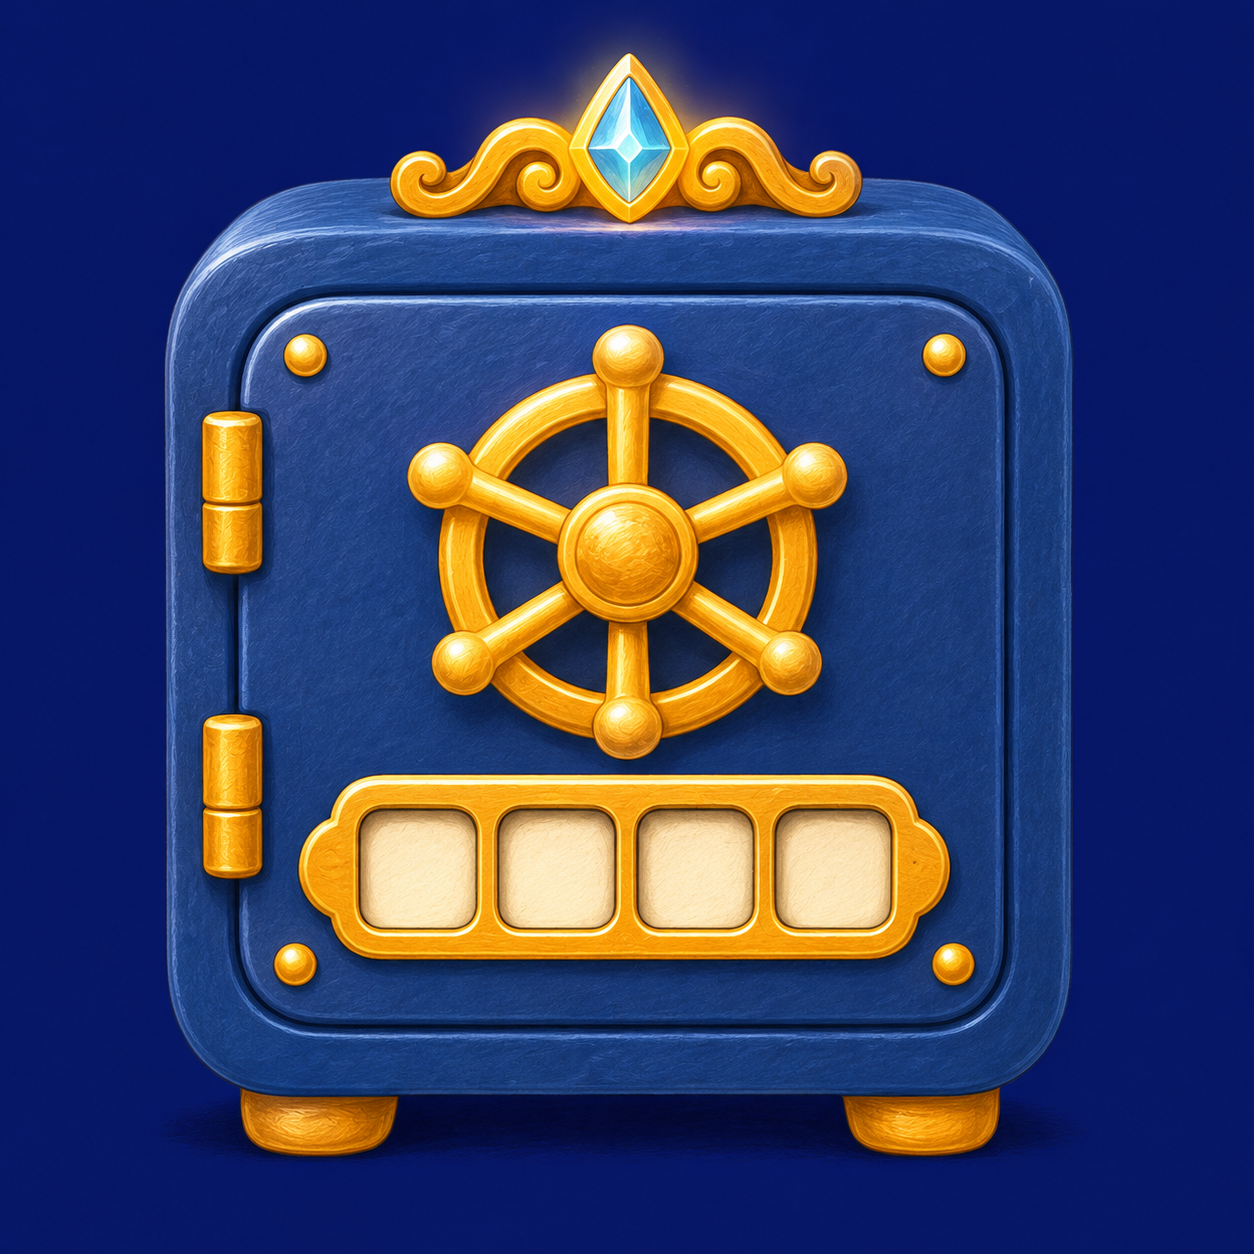
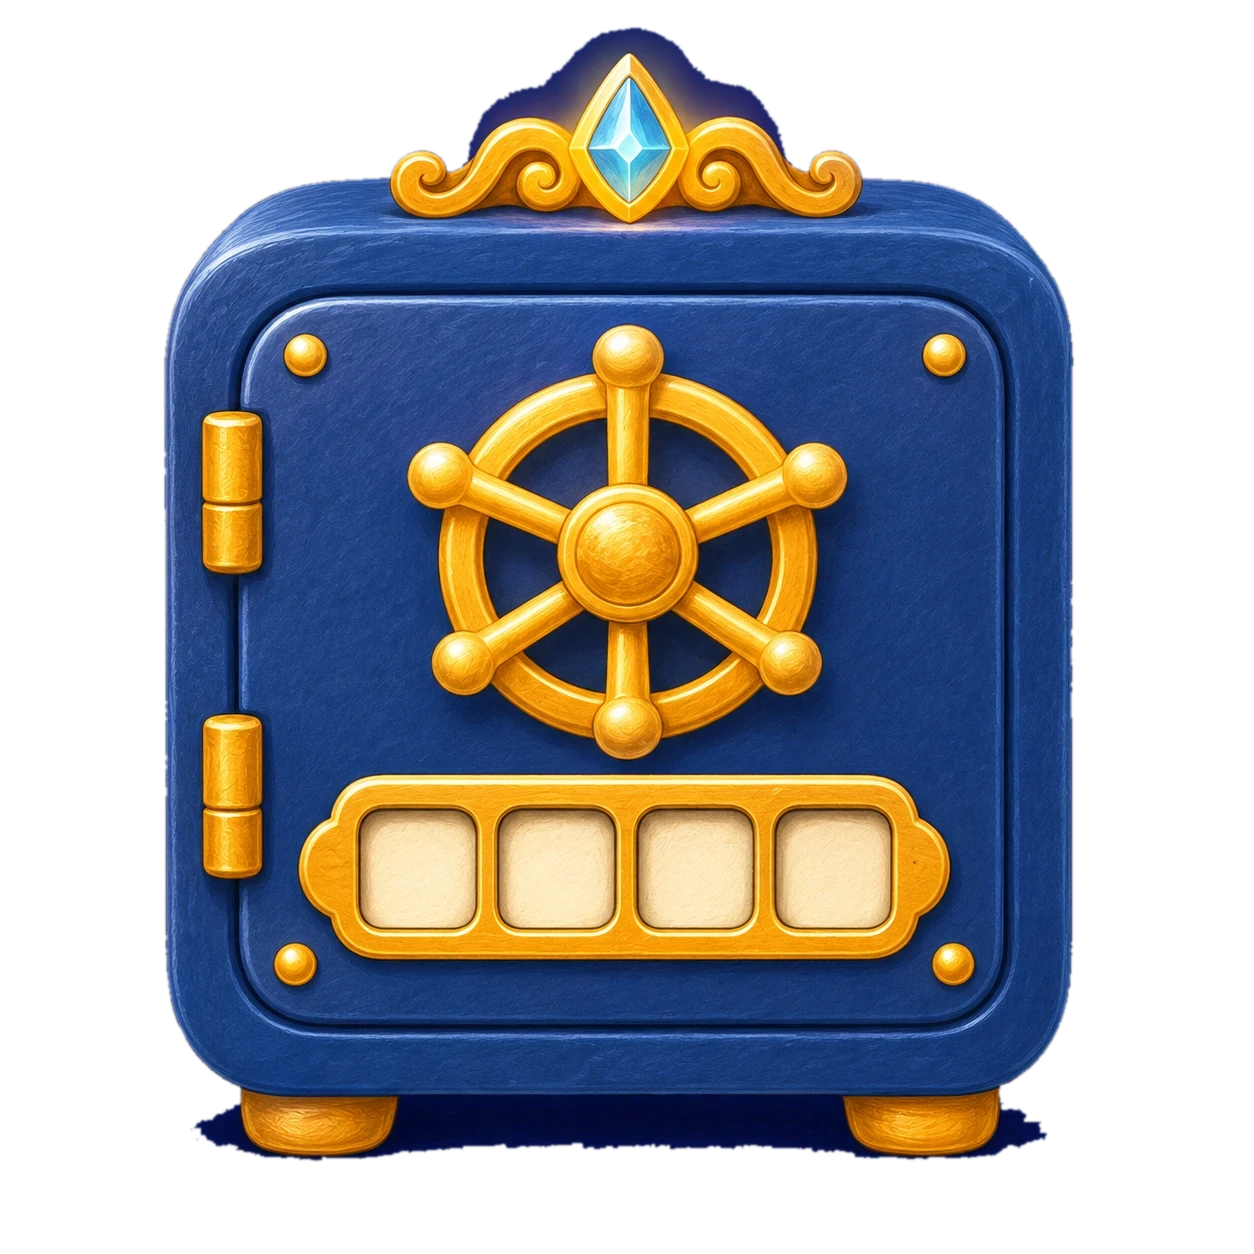
v8: Tresor freigestellt, Plakatstücke im richtigen Format, Werkzeug-Moment schluckt den ersten Tipp, Karte Spur 22, Doku Runden 3–4
Claude-Session: https://claude.ai/code/session_01XbiCnECXMiu6RfpngsWtJQ

diff --git a/app/src/v8/effekte.ts b/app/src/v8/effekte.ts
@@ -14,6 +14,7 @@ export const wzChip = (UI: Record<string, string>, w: Werkzeug, kl = '') => `<sp
 /**
  * Werkzeug-Moment: Einblendung beim Start eines Rätsels (ca. 1,4 s). Die Fläche fängt keine Klicks ab
  * (pointer-events: none); der erste Tipp irgendwo schließt sie und geht ganz normal weiter.
+ * Der erste Tipp schließt nur die Einblendung und löst im Rätsel darunter nichts aus.
  * Gibt eine Funktion zurück, die die Einblendung sofort entfernt.
  */
 export function werkzeugMoment(host: HTMLElement, w: Werkzeug, UI: Record<string, string>, raupeUrl: string): () => void {
@@ -24,15 +25,17 @@ export function werkzeugMoment(host: HTMLElement, w: Werkzeug, UI: Record<string
   el.innerHTML = `<div class="wzm-k"><img class="wzm-r" src="${raupeUrl}" alt=""><p class="wzm-kopf">${UI.wzKopf}</p><div class="wzm-i">${werkzeugIcon(w)}</div><b class="wzm-n">${wzName(UI, w)}</b><p class="wzm-t">${wzSatz(UI, w)}</p></div>`;
   host.appendChild(el);
   let weg = false, t = 0;
+  const schluck = (e: Event) => { e.stopPropagation(); e.preventDefault(); };
+  const tipp = (e: Event) => { schluck(e); ab(); document.addEventListener('click', schluck, { capture: true, once: true }); setTimeout(() => document.removeEventListener('click', schluck, true), 400); };
   const ab = () => {
     if (weg) return;
     weg = true; clearTimeout(t);
-    document.removeEventListener('pointerdown', ab, true);
+    document.removeEventListener('pointerdown', tipp, true);
     if (weniger()) return el.remove();
     el.classList.add('geht');
     setTimeout(() => el.remove(), 220);
   };
-  document.addEventListener('pointerdown', ab, true); // Capture: das Ereignis läuft danach unverändert weiter
+  document.addEventListener('pointerdown', tipp, true); // Capture: der Tipp schließt nur die Einblendung
   t = window.setTimeout(ab, weniger() ? 800 : 1450);
   return ab;
 }

diff --git a/app/src/v8/raetsel.ts b/app/src/v8/raetsel.ts
@@ -1145,7 +1145,7 @@ export function plakat(r: HTMLElement, d: Daten, fertig: () => void) {
   let sel: number | null = null, fehl = 0, sperre = false;
   const stueck = (i: number, kl = '') => `<div class="pk-st${kl}${sel === i ? ' sel' : ''}" data-s="${i}" style="background-image:url(${url});background-size:${cols * 100}% ${rows * 100}%;background-position:${cols > 1 ? ((i % cols) / (cols - 1)) * 100 : 0}% ${rows > 1 ? (Math.floor(i / cols) / (rows - 1)) * 100 : 0}%"></div>`;
   const mal = (fest = false) => {
-    zi.innerHTML = `<div class="pk-brett${fest ? ' fest' : ''}" style="--sp:${cols};aspect-ratio:${d.ratio}">${plaetze.map((s, p) => `<div class="pk-platz${s !== null ? ' voll' : ''}" data-p="${p}">${s !== null ? stueck(s) : ''}</div>`).join('')}</div>${fest ? '' : `<div class="pk-pool" style="--sp:${cols}">${ordnung.map((s, k) => `<div class="pk-zelle" style="--w:${[-3, 2, -2, 3, -3, 2][k % 6]}deg">${plaetze.includes(s) ? '' : stueck(s)}</div>`).join('')}</div>`}`;
+    zi.innerHTML = `<div class="pk-brett${fest ? ' fest' : ''}" style="--sp:${cols};--pr:${(d.ratio * rows / cols).toFixed(4)};aspect-ratio:${d.ratio}">${plaetze.map((s, p) => `<div class="pk-platz${s !== null ? ' voll' : ''}" data-p="${p}">${s !== null ? stueck(s) : ''}</div>`).join('')}</div>${fest ? '' : `<div class="pk-pool" style="--sp:${cols};--pr:${(d.ratio * rows / cols).toFixed(4)}">${ordnung.map((s, k) => `<div class="pk-zelle" style="--w:${[-3, 2, -2, 3, -3, 2][k % 6]}deg">${plaetze.includes(s) ? '' : stueck(s)}</div>`).join('')}</div>`}`;
     if (!fest) unten(knopf('fertig', K.UI.fertig, plaetze.some((p) => p === null) || sperre), () => pruefe());
   };
   const setze = (s: number, p: number) => {

diff --git a/app/src/v8/runde3.css b/app/src/v8/runde3.css
@@ -210,3 +210,14 @@
 /* Ausblick mit Bild (Ende Kapitel 3) */
 #app .haken.mitbild .ab-bild { width: min(92%, 520px); margin: 0 auto 6px; transform: rotate(-1.5deg); }
 #app .haken.mitbild .ab-bild img { width: 100%; display: block; }
+
+/* Plakat: Plätze und Stücke haben das Seitenverhältnis eines echten Stücks */
+#app .pk-platz { aspect-ratio: var(--pr, 1); }
+#app .pk-pool .pk-zelle { aspect-ratio: var(--pr, 1); }
+#app .pk-pool .pk-st { height: 100%; }
+#app .pk-brett { height: auto; }
+/* Tresor-Bilder freigestellt: weicher Schein statt blauem Quadrat */
+#app img[src*="tresor_"] { filter: drop-shadow(0 10px 18px rgba(0, 0, 0, .45)); }
+/* Tresor freigestellt: kein Kasten-Schatten mehr, nur weicher Schein */
+#app .fin-tresor img, #app .tv > img, #app .ib.tresor img, #app .tresorinfo > img.tresor-bild, #app .tresor-mini { box-shadow: none !important; border-radius: 0 !important; filter: drop-shadow(0 8px 14px rgba(0, 0, 0, .45)) drop-shadow(0 0 16px rgba(244, 194, 67, .35)); }
+#app .tv.auf .tv-auf { box-shadow: none; filter: drop-shadow(0 0 30px rgba(255, 210, 90, .8)); }

diff --git a/app/V7_STAND.md b/app/V7_STAND.md
@@ -62,6 +62,17 @@
 - **Politur** (`app/src/v8/politur.css`, zuletzt geladen): Hineingleiten beim Ansichtswechsel (`wechsel()` in `main.ts`), Blattwechsel mit Richtung, Druck-/Fokus-/Disabled-Stile, Kartenneigung (`--n`), Etikett mit Reißzwecke, Himmel mit Sternen und Mond (`himmel()`), Detektiv-Tisch (Holz hinter `.zi`), Sprechblase mit Raupenkopf, freundliches Fehler-Wackeln (`--weich`), Rechner ab 900 px: Buch auf Nachthimmel. Bei „weniger Bewegung“ ist alles still.
 - Neue Textschlüssel `raupeSagt` (beide TEXT-Mengen), ui `teamZeile`. Bilder: `node scripts/politur-shots.mjs [b h name]` → `03_screens/v8/politur/`.
 
+## Runden 3–4 nach dem Durchspielen (13.11.2026)
+
+Alle Zusatz-Stile stehen in `app/src/v8/runde3.css` (wird nach `politur.css` geladen, Regeln mit `#app` davor).
+- **Kopf:** Mond-Phase `#kMond` (`mondPhase()` in `main.ts`, wächst mit gelösten Spuren), Raupen-Weg `.kweg` (Anteil gelöster Spuren des Kapitels).
+- **Brett:** Fragen laufen durch das ganze Buch (`fragenNeu`/`fragenWeg` je Spur, jede Frage wird irgendwo geklärt; schon beantwortete fallen auch bei altem Spielstand weg). Neue Karte erscheint groß („Neuer Fund!“) und wird angetippt; danach wählt das Kind selbst, welche Frage geklärt ist (`fragePhase` in `brett()`; Knopf „Erst die geklärte Frage antippen“). Fragen sind Klebezettel.
+- **Werkzeuge:** Bilder `assets/illustrationen/objekte/kraft_*.webp` (statt gezeichneter Icons, `WZ_BILD` in `zeichnen.ts`). Der erste Tipp während des Werkzeug-Moments schließt nur die Einblendung (`effekte.ts`).
+- **Rätsel neu/umgebaut:** Schatten (Spur 14) – Vogel antippen, sein Umriss legt sich blau über den Schatten, Knopf „Dieser Schatten passt genau“. Unterschiede (Spur 2, 15, 21) – ein Bild mit Schalter „Vorhin/Jetzt“. Pullis (Spur 6) als Bilder `objekte/pulli_*` (`scripts/pullis.py` stellt frei). Vögel (Spur 23) mit Größe in cm und Maßstab (`cm`, `skala`). Spur 22 mit sechs Karten. Nest (Spur 24) – „Der Schatz der Elster“: Laub wegwischen, dann in `nest_nah` alles antippen, was glänzt (`ziele`, 6), Ablenker ohne Glanz (`andere`: Knopf, Papierdreieck).
+- **Geschichte:** Die Elster sammelt, was glänzt, und baut ihr Nest aus weißen Streifen; sie holte den Faden, der Mond hing daran. Bild `k3_elster` beim Ausblick von Kapitel 3 (`ausblickBild`), `k4_s19_elster` in Spur 19, `k4_s24_fenster` in Spur 24.
+- **Bilder freigestellt:** Tresor (`tresor_zu`, `tresor_auf` ohne blaues Quadrat), Plakatstücke im echten Seitenverhältnis (`--pr`).
+- **Tests** (`e2e-v8*.mjs`) sind noch nicht an diese Runden angepasst – nach dem Durchspielen der Besitzerin anpassen und laufen lassen.
+
 ## Ссылки
 
 - Артефакт v8, Глава 1: https://claude.ai/artifact/NejzAvfd2FxeZJJYRJUpc9

diff --git a/02_design/KONZEPT_v8.md b/02_design/KONZEPT_v8.md
@@ -192,3 +192,15 @@
 - **След 16 (круги).** Владелица написала «нельзя ничего сделать»; мышью в проверке всё работает — выяснить, что именно не получилось.
 - «Штука с луной и временем пропала» — выяснить, что имелось в виду.
 - Перегенерировать: мяч и губку (промты на странице картинок).
+
+
+## Решения после второго прохождения (13.11.2026)
+
+Закрыто из списка выше: роль гусенички (4 силы, значки-картинки, показ перед каждой загадкой, последнее слово в финале), правка текстов глав 2–4 (ещё ждёт вычитки владелицы), оформление (шапка, сукно, стикеры, подсветка кнопок), нитка, подсказка в кругах, луна-индикатор, мяч и губка.
+
+- **Мотив сороки (окончательно):** сорока собирает всё, что блестит, а гнездо строит из белых полосок. Поэтому она утащила белую нитку (луна висела на ней и улетела вместе) и ключ на белой ленте (он и белый, и блестящий). Блёсток на луне нет.
+- **Доска:** вопросы идут через всю книгу, каждый закрывается по ходу; ребёнок сам выбирает, какой вопрос закрыла новая карточка. Не больше четырёх открытых вопросов одновременно.
+- **Сорока 46 см** (вместе с хвостом) — оставить как есть.
+- **Показ инструмента:** первое нажатие только закрывает его.
+- **Карточка спектакля (Spur 22):** луна на сцене вместо длинной нитки.
+- **Тесты** запускать только после того, как владелица пройдёт все главы.
